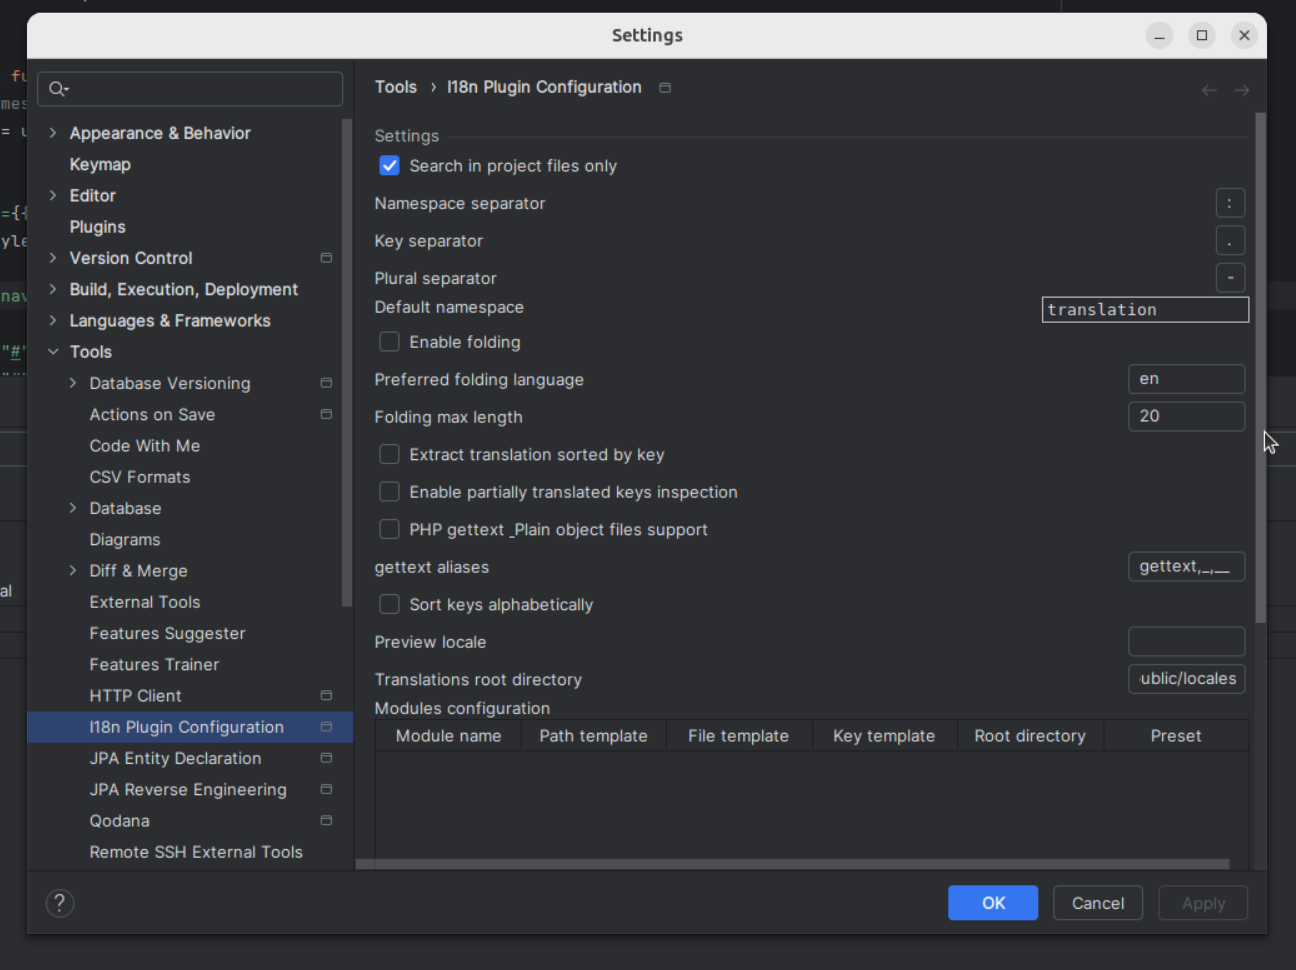
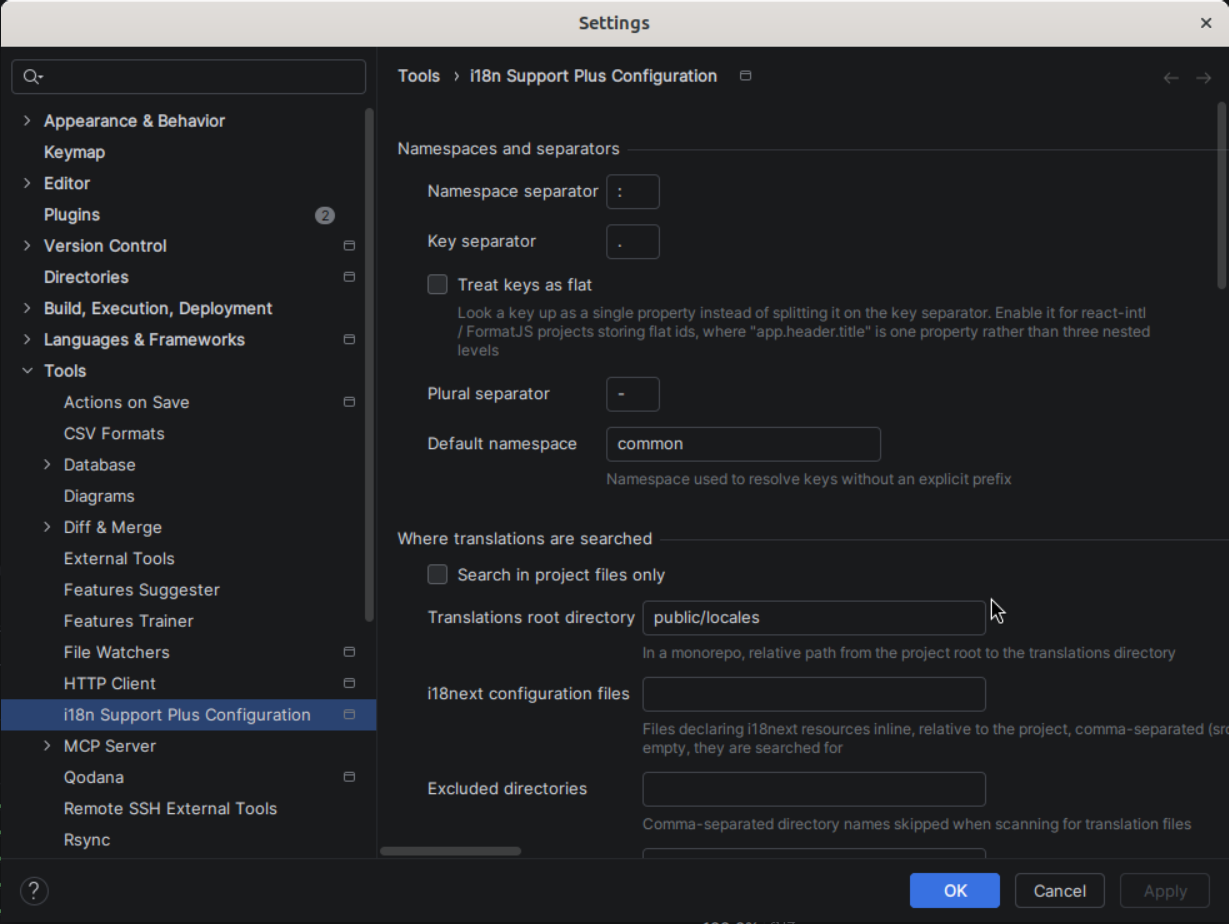
docs(readme): retake the tool window and settings screenshots
Twelve captures taken on the example project after the tool window
refactoring (#269-#271): the tree grouped by namespace, the table with
its Namespace column and filter, the Stats matrix and its popup, the
gutter badges and their tooltip, the hover table, and the four pages of
the settings. Two stale table captures nothing referenced are removed.

diff --git a/docs/SCREENSHOTS_CHECKLIST.md b/docs/SCREENSHOTS_CHECKLIST.md
@@ -12,63 +12,38 @@
 
 ---
 
-## À refaire — périmées depuis la refonte de la fenêtre d'outil (2026-09-14, PR #269–#271)
+## Captures de la fenêtre d'outil et des réglages — refaites le 2026-09-14
 
-### Tool Window — Tree
-- **Fichier** : `toolwindow-tree.png`
-- **Comment** : onglet **Tree**, sans filtre
-- **Contenu** : les groupes de namespace (icône paquet, gras, badge `15/17 (88%)`), au moins un
-  groupe déplié montrant dossiers et clés avec badges `EN✓ FR✗`, la légende en bas
-- **Périmé car** : l'ancienne capture montre `common:actions`, `common:appName`… à plat sous la racine
+Sources : `~/Pictures/Screenshots/Screenshot from 2026-09-14 14-4*.png`, rognées avec ImageMagick
+(`convert -crop`), sans mise à l'échelle.
 
-### Tool Window — Table
-- **Fichier** : `toolwindow-table.png`
-- **Comment** : onglet **Table**, combo sur *All namespaces*
-- **Contenu** : la colonne **Namespace** en tête, la clé sans préfixe, les colonnes `en`/`fr`
-  avec au moins une cellule *Missing* (icône rouge) et une *Empty* (icône orange), la colonne
-  Usage à « not scanned »
-- **Périmé car** : pas de colonne Namespace, clés préfixées
+| Fichier | Contenu | Statut |
+|---|---|---|
+| `toolwindow-tree.png` | groupes de namespace dépliés (`auth`, `common`, `dashboard`), badges `EN✓ FR✓`, légende | DONE |
+| `toolwindow-table.png` | colonne Namespace, clés sans préfixe, deux cellules *Missing* | DONE |
+| `toolwindow-table-namespace-filter.png` | combo *All namespaces* déroulée | DONE |
+| `toolwindow-stats.png` | matrice Namespace × locale, ligne Total, barres vertes/orange | DONE |
+| `toolwindow-stats-popup.png` | popup `common — 'fr': 2 missing, 0 empty — reference: en` sous la cellule | DONE |
+| `gutter-icons.png` | `DepositBox.tsx` avec badges vert / orange / rouge | DONE (refaite) |
+| `gutter-icons-tooltip.png` | tooltip *Partial translation (1/2 locales)* | DONE (refaite) |
+| `hover-hint.png` | table de survol `en` / `fr` avec liens ↗ et crayon | DONE (refaite) |
+| `settings.png` | *Namespaces and separators*, *Where translations are searched* | DONE |
+| `settings-folding.png` | *Folding and preview*, *Key extraction*, *PHP / gettext*, *Inspections* | DONE (nouvelle) |
+| `settings-modules.png` | *Appearance*, *Translation file formats*, *Modules configuration* | DONE (nouvelle) |
+| `settings-rules.png` | *Key assistance rules* | DONE (nouvelle) |
 
-### Tool Window — Orphans
+### Reste à refaire
+
+#### Tool Window — Orphans
 - **Fichier** : `toolwindow-table-orphans.png`
-- **Comment** : onglet **Table**, après **Scan Orphans** (toolbar)
-- **Contenu** : la colonne Usage remplie, une ligne *Unused* et une ligne *Dynamic* si possible,
-  le menu contextuel ouvert sur une ligne *Unused* montrant **Delete unused key**
-- **Périmé car** : même raison que la table
+- **Comment** : onglet **Table**, après **Scan Orphans** (toolbar), clic droit sur une ligne *Unused*
+- **Contenu** : la colonne Usage remplie, le menu contextuel ouvert avec *Delete unused key*
+- **Périmé car** : capture d'avril, sans colonne Namespace ni états *Dynamic*
 
-### Tool Window — Stats
-- **Fichier** : `toolwindow-stats.png`
-- **Comment** : onglet **Stats**
-- **Contenu** : la matrice Namespace × locale : ligne **Total** en gras, une ligne par namespace,
-  cellules `11/13 [=====  ] 84.6%` avec au moins une barre orange (< 90 %) ; en-têtes `EN` / `FR`
-- **Périmé car** : l'ancienne capture montre le tableau Locale | Total | Translated | Missing | %
-
-### Tool Window — Stats popup (nouvelle)
-- **Fichier** : `toolwindow-stats-popup.png`
-- **Comment** : onglet **Stats**, cliquer une cellule avec des clés non traduites (ex. `common` / `FR`)
-- **Contenu** : la popup ancrée sous la cellule : titre `common — 'fr': 2 missing, 1 empty — reference: en`,
-  les lignes avec icône ✗ / !, la clé, la valeur `en` en gris, la ligne d'aide
-  « Enter or click: translate · F4: open in 'en' » en bas
-
-### Sync Missing Keys
-- **Fichier** : `sync-missing-keys.png`
-- **Comment** : **Sync Keys** depuis la toolbar de la fenêtre d'outil
-- **Contenu** : le dialogue de saisie groupée avec plusieurs clés à remplir
-- **À vérifier** : la capture actuelle date d'avril ; refaire seulement si le dialogue a changé
-
-### Settings
-- **Fichier** : `settings.png`
-- **Comment** : **Settings > Tools > i18n Support Plus Configuration**
-- **Contenu** : la page complète avec ses groupes (*Namespaces and separators*, *Where translations
-  are searched*, *Modules configuration*, *Key assistance rules*, …)
-- **Périmé car** : la capture d'avril ne montre ni les modules, ni les règles, ni la locale de prévisualisation
-
-### Navigation
-- **Fichier** : `navigation.png`
-- **Comment** : Ctrl+survol d'une clé
-- **Contenu** : le lien souligné sur la clé ; ne plus montrer de popup *Choose Declaration* — depuis
-  #268 le Ctrl+clic ouvre directement la locale de prévisualisation
-- **À vérifier** : refaire seulement si l'ancienne capture montre la popup de choix
+### À vérifier
+- `navigation.png` : ne doit plus montrer de popup *Choose Declaration* (depuis #268 le Ctrl+clic
+  ouvre directement la locale de prévisualisation)
+- `sync-missing-keys.png` : refaire seulement si le dialogue a changé d'aspect
 
 ---
 
@@ -82,23 +57,18 @@
 | 4 | Annotation — fichier manquant | `annotation-missing-file.png` |
 | 6 | Completion | `completion.png` |
 | 7 | Extraction | `extraction.png`, `extraction-intent.png`, `extraction-add-namespace.png`, `extraction-translation-value.png` |
-| 8 | Gutter Icons | `gutter-icons.png` |
-| 9 | Inlay Hints | `inlay-hints.png` |
 | 10 | Code Folding | `folding-before.png`, `folding-after.png` |
-| 16 | Hover Hint | `hover-hint.png` |
+| 9 | Inlay Hints | `inlay-hints.png` |
 
 ### Captures supplémentaires disponibles (non référencées par le README)
-- `gutter-icons-tooltip.png` — Tooltip gutter "All locales resolved (4/4)"
 - `annotation-partial.png` — Code JSX avec icônes gutter orange (partial translation)
 - `annotation-quickfix.png` — Quick fix popup "Create i18n key" sur clé non résolue
-- `toolwindow-table-edit.png`, `toolwindow-table-missing.png`, `toolwindow-table-namespace-filter.png` —
-  anciennes vues de la table, **périmées** : à supprimer ou à refaire si on veut les référencer
 
 ## Récapitulatif
 
 | Statut | Nombre |
 |--------|--------|
-| À refaire | 5 (`toolwindow-tree`, `toolwindow-table`, `toolwindow-table-orphans`, `toolwindow-stats`, `settings`) |
-| Nouvelle | 1 (`toolwindow-stats-popup`) |
+| Refaites le 2026-09-14 | 12 |
+| À refaire | 1 (`toolwindow-table-orphans`) |
 | À vérifier | 2 (`sync-missing-keys`, `navigation`) |
-| Inchangées | 18 |
+| Inchangées | 15 |

diff --git a/README.md b/README.md
@@ -152,9 +152,10 @@ Line markers in the editor gutter indicate key resolution status at a glance:
 | ⚠ Yellow | Key resolved in **some** locales (partial) |
 | ❌ Red | Key not found in **any** locale |
 
-Clicking a partial/missing badge triggers the quick fix to create the missing key.
+Hovering a badge lists the locales; clicking a partial/missing badge triggers the quick fix to create the missing key.
 
 ![Gutter Icons](docs/img/gutter-icons.png)
+![Gutter Icons tooltip](docs/img/gutter-icons-tooltip.png)
 
 ### Inlay Hints
 
@@ -241,6 +242,7 @@ Flat table: a **Namespace** column while the rows span several namespaces, the *
 - Right-click: edit, open file, delete an unused key
 
 ![Tool Window Table](docs/img/toolwindow-table.png)
+![Tool Window namespace filter](docs/img/toolwindow-table-namespace-filter.png)
 ![Tool Window Orphans](docs/img/toolwindow-table-orphans.png)
 
 ### Keys Synchronizer
@@ -265,6 +267,8 @@ A monorepo is described as **modules** in the settings (root directory, path tem
 ## Configuration
 
 **Settings > Tools > i18n Support Plus Configuration**
+
+![Settings](docs/img/settings.png)
 
 ### Namespaces and separators
 
@@ -291,11 +295,17 @@ A monorepo is described as **modules** in the settings (root directory, path tem
 
 One entry per application of a monorepo: a **name**, a **root directory**, a **path template** designating its translation files (`locales/{lang}/{ns}.json`, `messages/{lang}.yml`), an optional **file template**, a **key template** saying how its code writes keys (`{ns}:{key}`, `{ns}.{key}`, `{key}`) and a framework **preset**. A diagnostics panel underneath says what each template resolves to.
 
+![Settings — modules](docs/img/settings-modules.png)
+
 ### Key assistance rules
 
 Rules make other calls behave like `t`: a **trigger** (`translate`, `i18n.translate`, `__`) turns a function into a translation call, an **exclude** rule takes one out. Each rule can be limited to a language (`js`, `php`) and constrained on the file path, the file's imports or the key — exact, prefix or regular expression, optionally negated.
 
+![Settings — key assistance rules](docs/img/settings-rules.png)
+
 ### Folding and preview
+
+![Settings — folding, extraction, gettext, inspections](docs/img/settings-folding.png)
 
 | Setting | Default | Description |
 |---------|---------|-------------|
